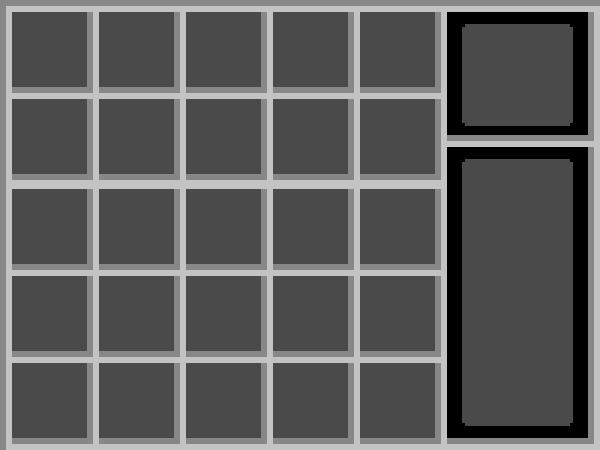
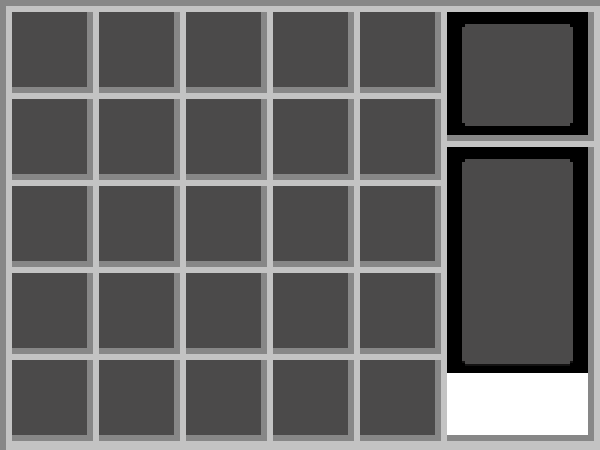
Añadido marcador de casilla, ademas de mostrar en el hud el objeto marcado. Añadido sprite de boton para futuro uso.

diff --git a/ProyectosSDL/HolaSDL/Inventory.h b/ProyectosSDL/HolaSDL/Inventory.h
@@ -11,15 +11,19 @@ private:
 	ObjectList* inventario;
 	Texture* txt;
 	Texture* txt2;
+	Texture* txt3;
+	CasillaInventario* copia = new CasillaInventario();
 	RenderComponent* imagen;
 	GameComponent* inventarioHud = new GameComponent(app);
+	GameComponent* marca = new GameComponent(app);
 	const double espaciado = 87;
-	const double numCas = 5;
+	const int numCas = 5;
 	vector<Vector2D> matriz;
 public:
 	Inventory() {};
 	Inventory(SDLApp* app, ObjectList* inventario);
 	virtual ~Inventory() { txt = nullptr; stage.clear(); };
 	virtual void handleEvent(SDL_Event& event);
+	void muestraDescripcion(CasillaInventario* aux);
 };
 

diff --git a/ProyectosSDL/HolaSDL/ObjectList.cpp b/ProyectosSDL/HolaSDL/ObjectList.cpp
@@ -12,6 +12,6 @@ void ObjectList::addItem(Texture* txt, string tag, string descripcion) {
 	newCasilla->addRenderComponent(cmpRender);
 	newCasilla->setWidth(20);
 	newCasilla->setHeight(40); //medidas de prueba
-	newCasilla->setPosition(Vector2D(160 - txt->getWidth()/2 , 175 - txt->getHeight()/2));
+	newCasilla->setPosition(Vector2D(-newCasilla->getWidth()/2 , -newCasilla->getHeight()/2));
 	objetos.push_back(newCasilla); //lo guardamos
 }

diff --git a/ProyectosSDL/HolaSDL/CasillaInventario.h b/ProyectosSDL/HolaSDL/CasillaInventario.h
@@ -7,6 +7,7 @@ private:
 	string tag;
 	string description;
 public:
+	CasillaInventario() {};
 	virtual ~CasillaInventario();
 
 	//Constructora que recibe el tag y su descripcion

diff --git a/ProyectosSDL/HolaSDL/GameComponent.h b/ProyectosSDL/HolaSDL/GameComponent.h
@@ -13,6 +13,7 @@ using namespace std;
  */
 class GameComponent: public GameObject {
 public:
+	GameComponent() {};
 	GameComponent(SDLApp* game);
 	virtual ~GameComponent();
 

diff --git a/ProyectosSDL/HolaSDL/CasillaInventario.cpp b/ProyectosSDL/HolaSDL/CasillaInventario.cpp
@@ -1,5 +1,6 @@
 #include "CasillaInventario.h"
 #include "ComponenteClickeable.h"
+
 CasillaInventario::~CasillaInventario()
 {
 	GameComponent::~GameComponent();
